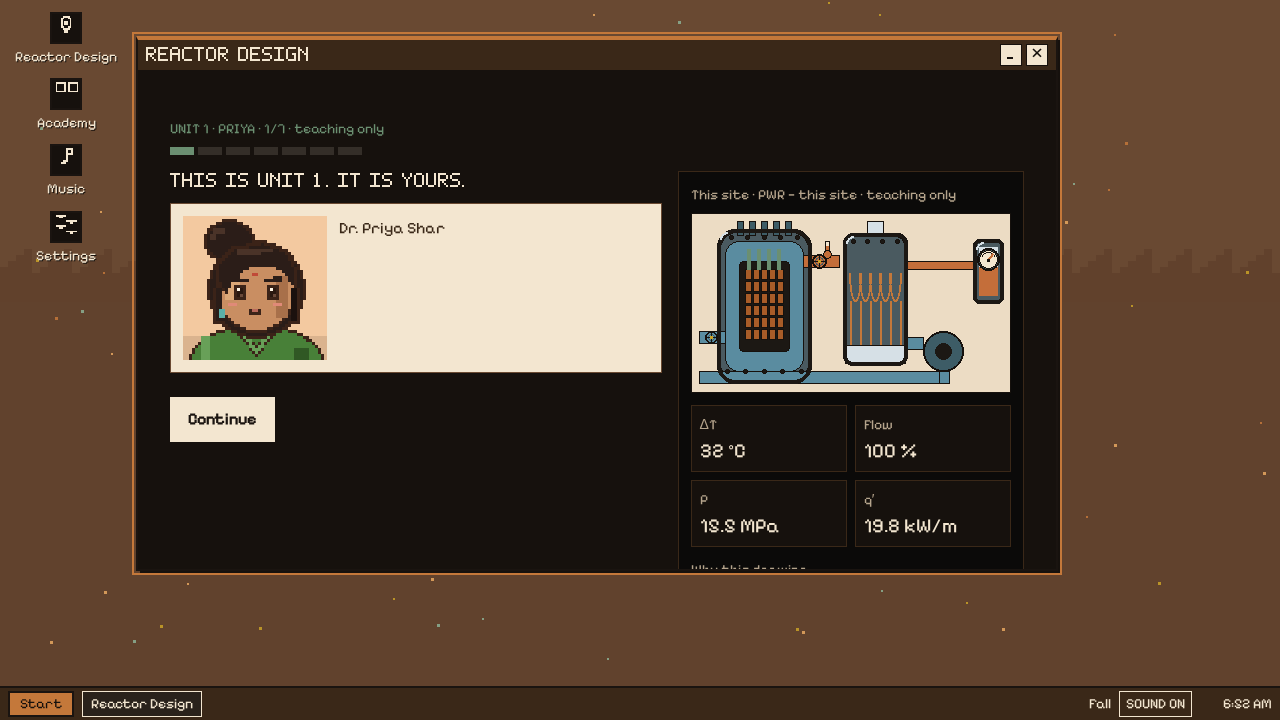
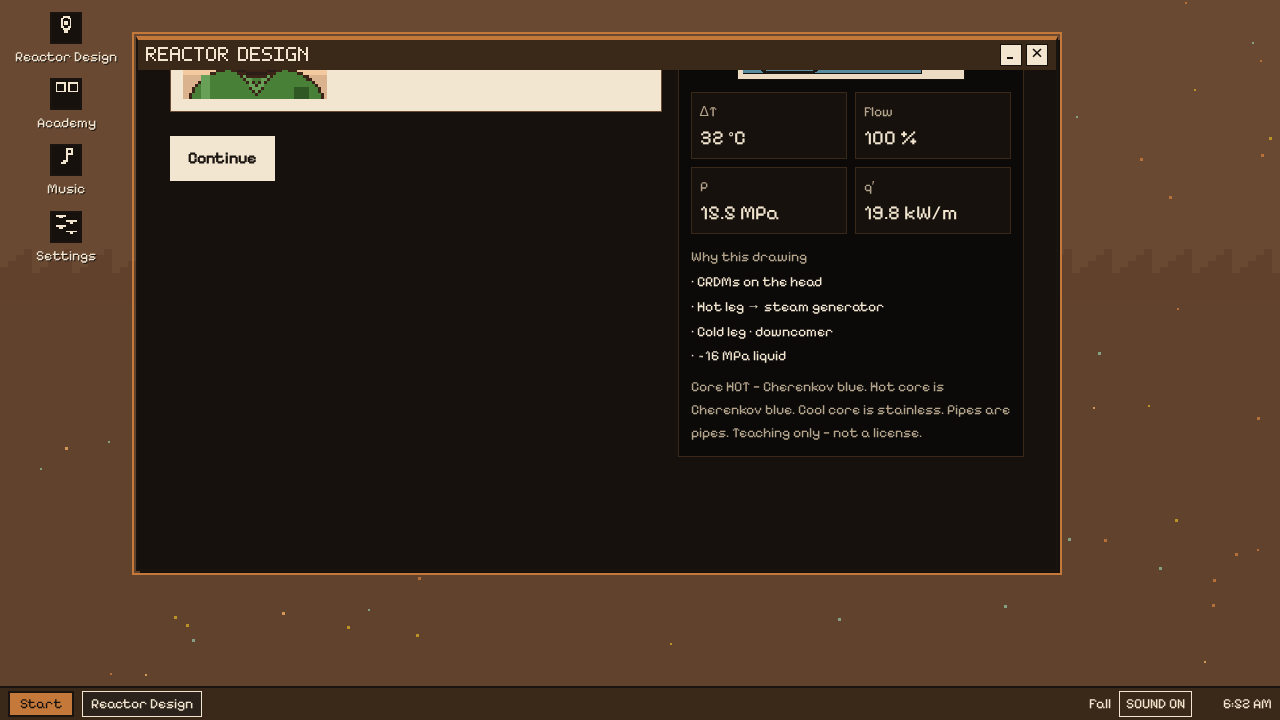
B2: keep the builder legend inside the panel.
The cutaway was short enough that Why this drawing and the sentence under it sit in the panel at 1280 and at 390.

diff --git a/src/game/PlantHud.tsx b/src/game/PlantHud.tsx
@@ -70,7 +70,7 @@ export function PlantHud({ plant }: { plant: PlantDesign }) {
   return (
     <div className="teach-ink" data-testid="plant-hud">
       <p className="teach-kicker">This site · {SITE[plant.type]} · teaching only</p>
-      <CutawayLoop type={plant.type} hot={hot} className="mt-2 aspect-video w-full object-contain teach-pixel" />
+      <CutawayLoop type={plant.type} hot={hot} className="mt-2 max-h-32 w-full object-contain teach-pixel" />
       <div className="mt-3 grid grid-cols-2 gap-2">
         <TeachReadout k="ΔT" v={`${plant.dT} °C`} />
         <TeachReadout k="Flow" v={`${plant.flow} %`} />
@@ -80,13 +80,13 @@ export function PlantHud({ plant }: { plant: PlantDesign }) {
           v={`${q}${plant.type === "pwr" || plant.type === "bwr" ? " kW/m" : ""}`}
         />
       </div>
-      <p className="teach-kicker mt-3">Why this drawing</p>
-      <ul className="mt-1 space-y-0.5 font-mono text-[12px] leading-relaxed text-[#f3e6d0]">
+      <p className="teach-kicker mt-3" data-testid="why-drawing">Why this drawing</p>
+      <ul className="mt-1 space-y-0.5 text-[14px] leading-relaxed text-[#f3e6d0]" style={{ fontFamily: "var(--font-body)" }}>
         {LEGEND[plant.type].map((line) => (
           <li key={line}>· {line}</li>
         ))}
       </ul>
-      <p className="mt-2 text-[12px] leading-relaxed text-[#b5a48c]">
+      <p className="mt-2 text-[14px] leading-relaxed text-[#b5a48c]" data-testid="why-drawing-body" style={{ fontFamily: "var(--font-body)" }}>
         {plant.type === "pwr" ? (hot ? "Core HOT — Cherenkov blue. " : "Core COOL — stainless. ") : null}
         {COPY[plant.type]}
       </p>

diff --git a/src/game/ReactorBuilder.tsx b/src/game/ReactorBuilder.tsx
@@ -176,7 +176,7 @@ export function ReactorBuilder({
                 <Nav i={i} last={last} plant={plant} onBack={() => setI(i - 1)} onNext={() => setI(i + 1)} onDone={onDone} />
               </div>
             </div>
-            <div className="teach-span-5">
+            <div className="teach-span-5 min-h-0 overflow-y-auto">
               <PlantHud plant={plant} />
             </div>
           </>
